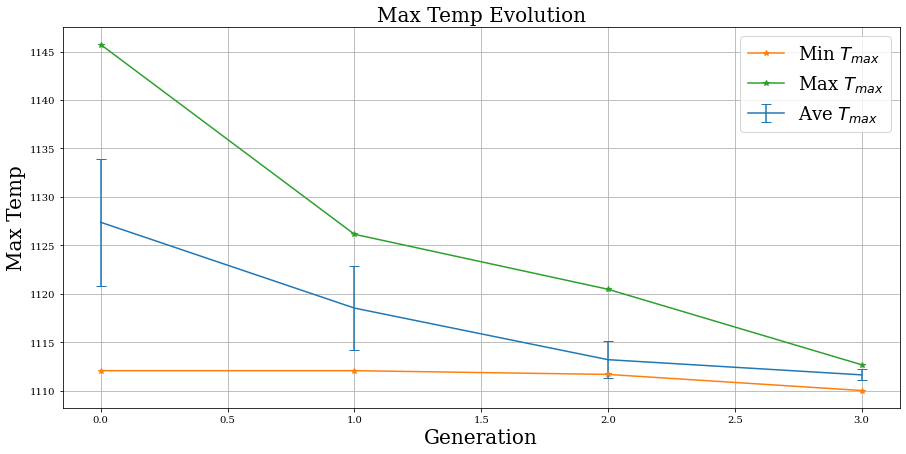
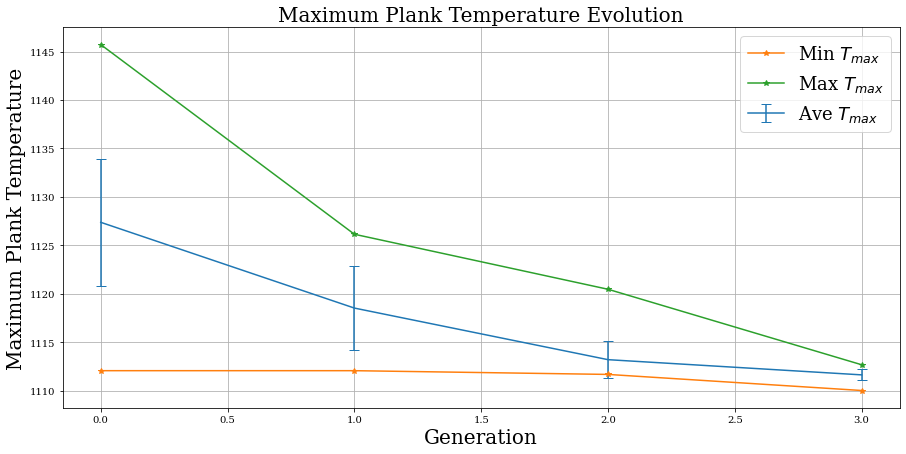
updates

Changed region(s): [[0.3091, 0.0, 0.7726, 0.0617], [0.0, 0.1542, 0.0309, 0.8326]]

diff --git a/docs/ahtr_rollo_slab.tex b/docs/ahtr_rollo_slab.tex
@@ -186,8 +186,9 @@ and Figure \ref{fig:slab-obj-1-pf-final-coolant} shows a plot of total radius
     \end{subfigure}
     \begin{subfigure}{\textwidth}
         \includegraphics[width=\linewidth]{slab-obj-1-pf-final-coolant.png}
-        \caption{TRISO particle distribution for the 5 individuals with the 
-        smallest packing fraction in generation 9.}
+        \caption{Plot of total radius ($r_{top} + r_{bot}$) against total packing 
+        fraction (PF). Red crosses indicate the five reactor models with the 
+        lowest PF.}
         \label{fig:slab-obj-1-pf-final-coolant} 
     \end{subfigure}
     \caption{Simulation p-1d -- ROLLO single-objective optimization to minimize total 
@@ -304,8 +305,9 @@ and Figure \ref{fig:slab-obj-1-temp-final-coolant} shows a plot of total radius
     \end{subfigure}
     \begin{subfigure}{\textwidth}
         \includegraphics[width=\linewidth]{slab-obj-1-temp-final-coolant.png}
-        \caption{TRISO particle distribution for the 5 individuals with the 
-        smallest packing fraction in generation 9.}
+        \caption{Plot of total radius ($r_{top} + r_{bot}$) against maximum plank 
+        temperature ($T_{max}$). Red crosses indicate the five reactor models with the 
+        lowest $T_{max}$.}
         \label{fig:slab-obj-1-temp-final-coolant} 
     \end{subfigure}
     \caption{Simulation p-1e -- ROLLO single-objective optimization to minimize 
@@ -313,6 +315,8 @@ and Figure \ref{fig:slab-obj-1-temp-final-coolant} shows a plot of total radius
     ($r_{top}, r_{bot}$).}
     \label{fig:slab-obj-1-temp-coolant}
 \end{figure}
+Figure \ref{fig:slab-obj-1-temp-final-coolant} demonstrates that there is a negative 
+linear correlation between maximum plank temperature and total radius. 
 
 \subsection{Objective: Minimize Fuel-Normalized Power Peaking Factor}
 
